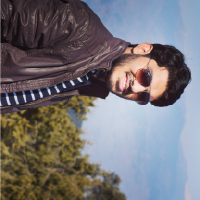
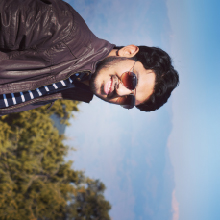
border changes

diff --git a/css/main.css b/css/main.css
@@ -598,10 +598,12 @@ h1, h2, h3, h4, h5, h6, p {
 .work-item {
     max-height: 250px;
     cursor: pointer;
+    margin: 0 12px;
     margin-bottom: 24px;
     position: relative;
     cursor: default;
     overflow: hidden;
+    border: 5px solid #fff !important;
 }
 
 .work-item img {
@@ -614,8 +616,8 @@ h1, h2, h3, h4, h5, h6, p {
 }
 
 .work-item-inside {
-    background-color: rgba(0, 0, 0, 0.8);
-    color: #fff;    
+    background-color: rgba(255, 255, 255, 0.9);
+    color: ##2B2B2B;    
     display: block;
     position: absolute;
     left: 0px;
@@ -1294,9 +1296,11 @@ h1, h2, h3, h4, h5, h6, p {
         .span_4,
         .services-frontend,
         .services-design,
-        .services-team,
-        .work-item {
+        .services-team {
             width:33.3333333333%;
+        }
+        .work-item {
+            width:31.2333333333%;
         }
         .span_5 {
             width:41.6666666667%;
@@ -1342,3 +1346,5 @@ h1, h2, h3, h4, h5, h6, p {
     -ms-transform: rotate(-90deg);
     transform: rotate(-90deg);
 }
+
+

diff --git a/index.html b/index.html
@@ -22,7 +22,6 @@
         <link rel="stylesheet" href="css/main.css">
         <link rel="stylesheet" href="css/style6.css">
         <link rel="stylesheet" type="text/css" href="css/common.css" />
-        <link rel="stylesheet" type="text/css" href="css/normalize.css" />
         <link rel="stylesheet" type="text/css" href="css/font-awesome.css" />
 
         <!-- Fonts -->
